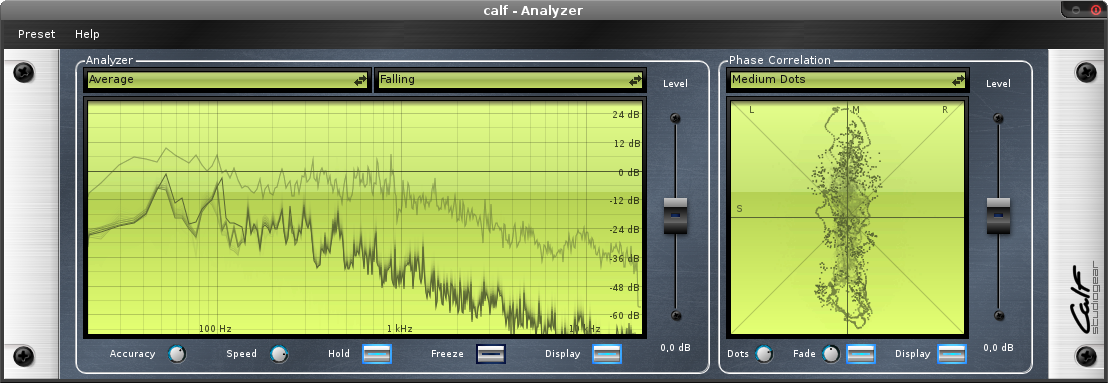
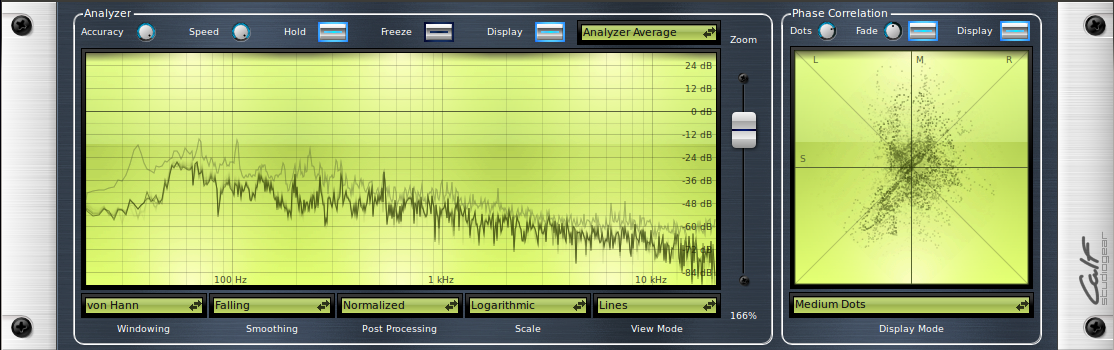
Analyzer help

diff --git a/doc/manuals/Analyzer.html b/doc/manuals/Analyzer.html
@@ -26,17 +26,30 @@
                 a signal with a wide spread from left to right displays a signal with a high
                 amount of stereo (phase shift) signal. A signal only audible on the right
                 speaker will produce a line from south west to north east and vice versa.
+                The Calf Goniometer will adapt to the amount of the incoming audio signal 
+                by zooming in or out automatically.
             </p>
             <h2>Controls</h2>
             <ul>
-                <li><strong>Source:</strong> Select the source for the frequency response graph.</li>
-                <li><strong>Mode:</strong> Set a mode for the behavior of the frequency response graph.</li>
-                <li><strong>Accuracy:</strong> The amount of visible frequencies. It also raises the delay of the displayed signal.</li>
+                <li><strong>Accuracy:</strong> The amount of visible frequencies. It also raises the time, in which audio samples are collected to calculate the frequency response. The higher Accuracy is set, the less responsive to short attacks the graph is.</li>
                 <li><strong>Speed:</strong> How often a FFT is calculated and displayed.</li>
                 <li><strong>Hold:</strong> Draw a maximum peak graph above the output graph.</li>
                 <li><strong>Freeze:</strong> Freeze the graph in the actual state. An eventually displayed peak hold will continue in being pushed to the limit.</li>
                 <li><strong>Display:</strong> Stop displaying this widget.</li>
-                <li><strong>Level:</strong> Raise the level of the displayed signal.</li>
+                <li><strong>Mode:</strong> Select the analyzers working mode and sources.</li>
+                <li><strong>Zoom:</strong> Changes the zoom for the displayed frequency response. In mode "Stereo Image" it effects the offset above which values will be displayed.</li>
+                <li><strong>Windowing:</strong> Select a window to be used to weight the incoming samples.</li>
+                <li><strong>Smoothing:</strong> Select a method to smooth the transition from one FFT to the next.</li>
+                <li><strong>Post Processing:</strong> Select a calculation, which will be done after the FFT is done. Due to the logarithmic frequency scale, not every value in the FFT can be shown in the graph. The higher the frequency, the more values are left out. Here you can decide what to do with those.
+                <ul>
+                <li><strong>Normalized</strong> will leave out the values between points on your monitor and instead normalize the values shown.</li>
+                <li><strong>Average</strong> will calculate the average of the not-shown values and display it.</li>
+                <li><strong>Additive</strong> will sum up the left-out values.</li>
+                <li><strong>Denoised Peaks</strong> will try to filter out noise in the FFT to leave blank peaks. This does not represent the actual music signal but can help to detect an important frequency.</li></ul></li>
+                <li><strong>Scale:</strong> Select if a linear or logarithmic scale is used for the shown values. The latter works well with <strong>View Mode Bars</strong>.</li>
+                <li><strong>View Mode:</strong> Select if bars or lines are drawn.</li>
+                
+                
                 <li><strong>Dots:</strong> The amount of dots shown on the canvas.</li>
                 <li><strong>Fade:</strong> Choose if a fade out effect should be drawn (doesn't raise the overall CPU consumption) and how fast it should disappear.</li>
             </ul>

diff --git a/doc/manuals/scripts/style.css b/doc/manuals/scripts/style.css
@@ -52,7 +52,12 @@ p, ul {
     -webkit-box-shadow: 0 2px 5px #1f1f1f;
     box-shadow:         0 2px 5px #1f1f1f;
 }
-ul {
+ul ul {
+    border: none;
+    -moz-box-shadow:    none;
+    -webkit-box-shadow: none;
+    box-shadow:         none;
+    margin: 0;
 }
 li {
     padding: 0;
